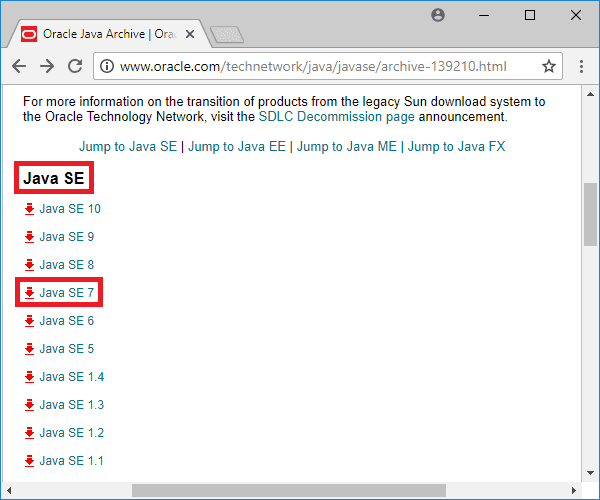
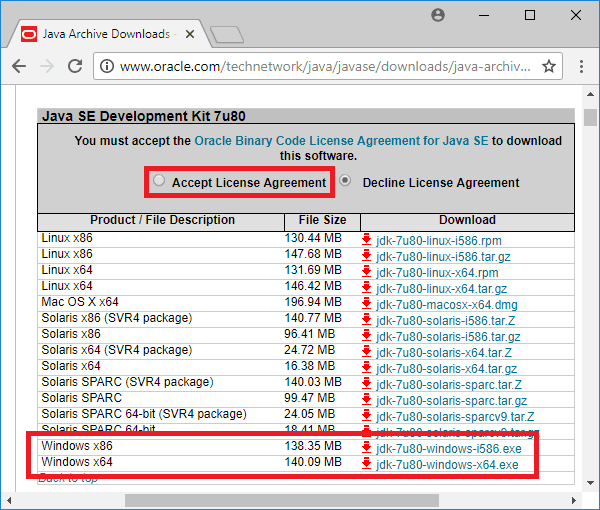
update post

diff --git a/_posts/development/2018-08-12-download-install-jdk-7-windows.md b/_posts/development/2018-08-12-download-install-jdk-7-windows.md
@@ -21,7 +21,7 @@ First, I’ll show you where you can download JDK 7.
 
 Then you’ll see how to configure it.
 
-And finally **how to check if everything is working**.
+And finally **how to verify if everything is working**.
 
 Let’s dive right in…
 
@@ -44,7 +44,7 @@ Click on the `Download` button.
 
 Click on the `Java SE 7` link under the `Java SE` section.
 
-<img src="{{ site.url }}/assets/images/posts/development/jdk/jdk-java-archive-se-7.png" alt="jdk java archive se 7">
+<img src="{{ site.url }}/assets/images/posts/development/jdk/jdk-7-download-java-se.png" alt="jdk 7 download java se">
 
 Click on the radio button next to `Accept License Agreement`.
 
